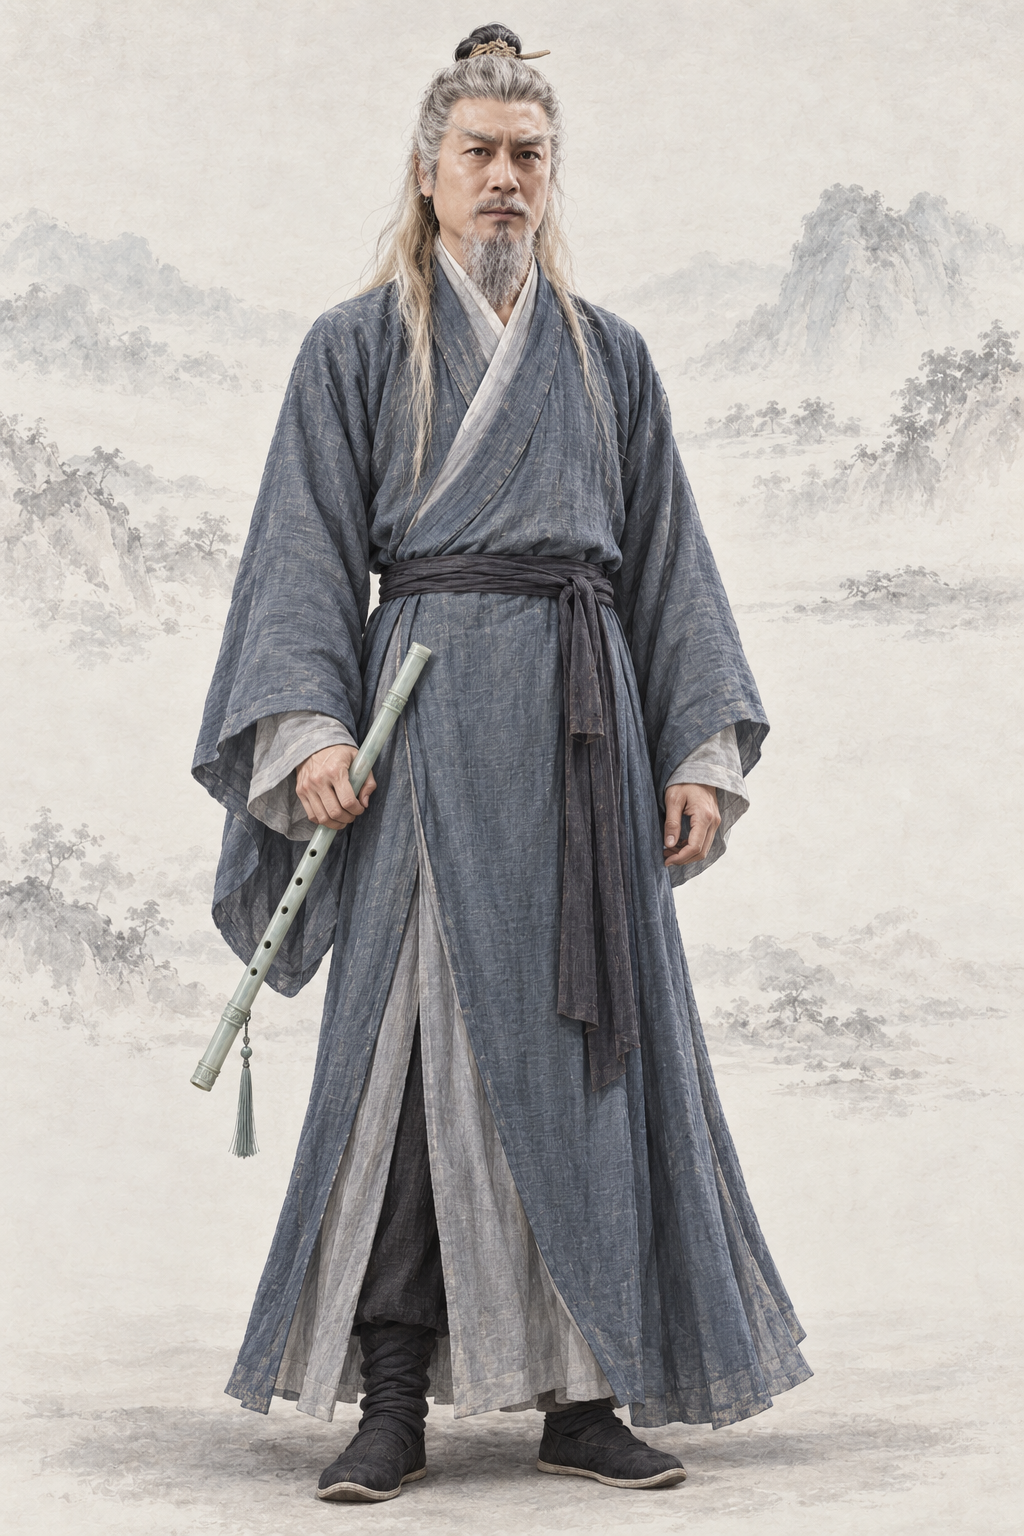
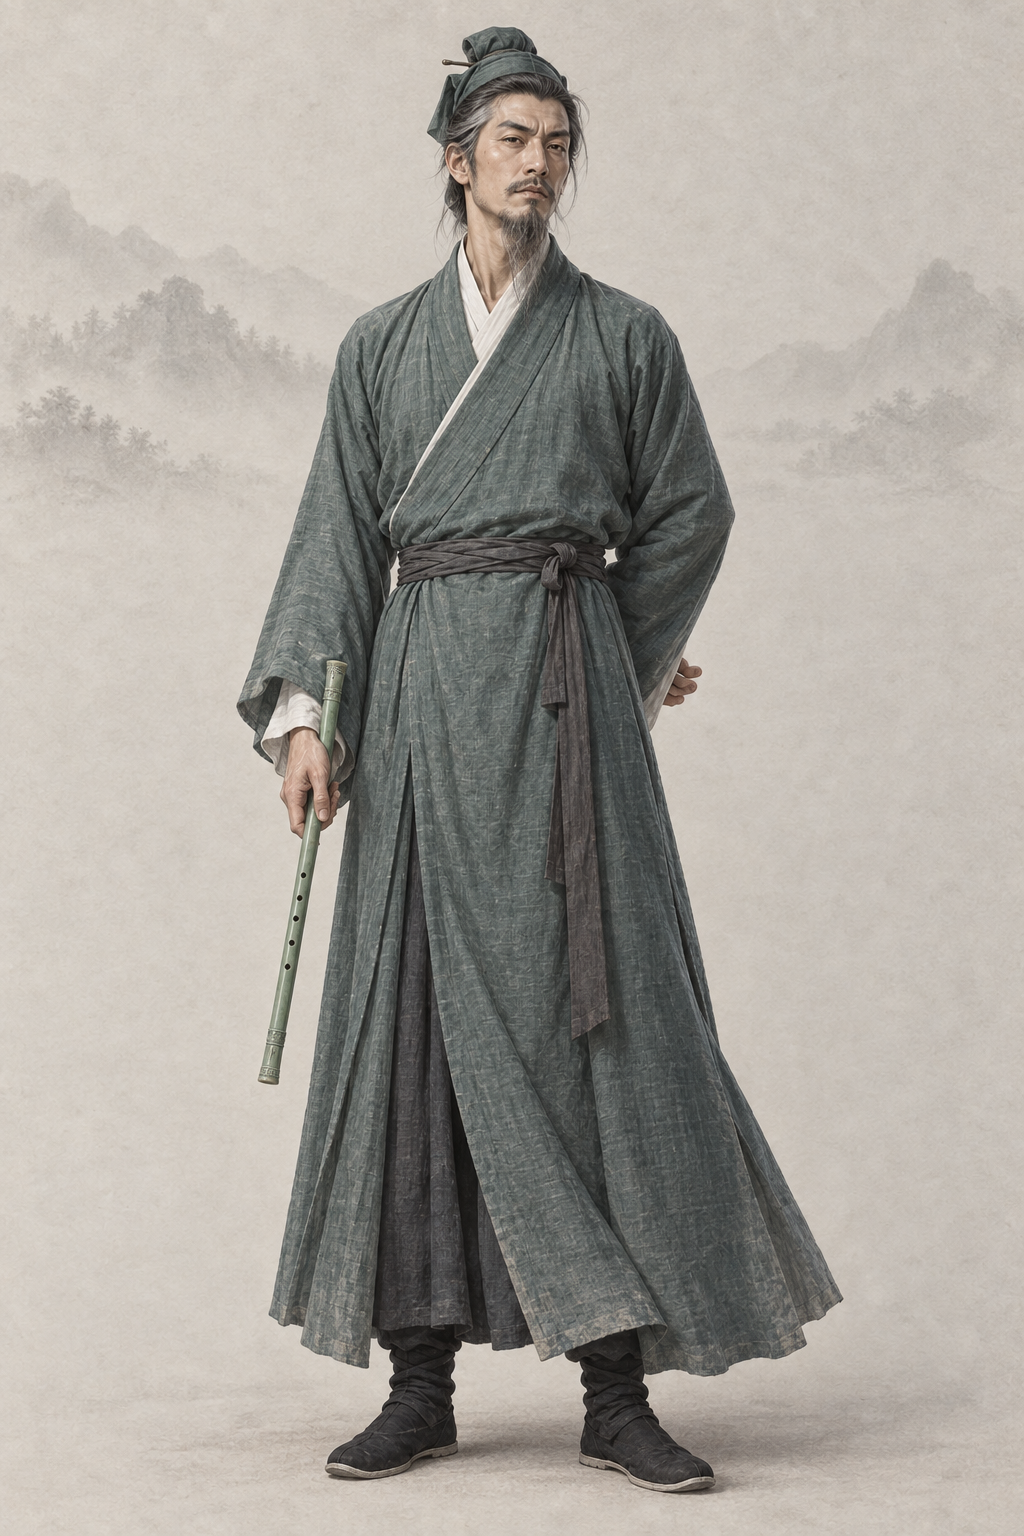
assets(character): por_npc_huangyaoshi__ch02_elder_base 黄药师（codex）
AR-31：重要人物加经典造型文字描写（原创面孔，不写演员名、不传剧照）

diff --git a/assets/default/prompts/characters/ch02-shediao/npc_huangyaoshi.md b/assets/default/prompts/characters/ch02-shediao/npc_huangyaoshi.md
@@ -20,11 +20,32 @@ realism_revision: user_identity_pose_20261001
 redo_reason: "面容源自 1983 版剧照（肖像风险），按原著“青衫、玉箫、形相清癯、高瘦隽爽”用文字原创重做，并作神雕黄药师身份参考"
 reference_upload:
 - assets/default/baseline/character/male/ref_npc_linghuchong__ch05_base01.png
+codex_prompt_rev: 2026-10-02
 ---
 
 # 黄药师 · 人物写实修正
 
 ## Gemini 提示词
+
+> 2026-10-02 AR-31 改写（1 号出图员，codex exec · image_gen 出图）：重要人物借鉴经典影视造型，只写成文字——不写演员名、不上传剧照、原创面孔；主角和美人画得好看，去 AI 味，禁止幼态。出图时上传两张同性别基线立绘作画风参考（放在最后）。审核组原稿保留在下一节作历史。
+
+```text
+生成一张 2:3 竖幅全身人物立绘：单人、单一视角、完整全身——头顶、双手、双脚和手中器物的两端都在画面内，四周留出自然空白；人物站姿自然，身体基本朝向正面，头部端正（不歪头、不仰不俯），镜头平视。
+【画风】写实手绘古风人物插画，与本项目写实武侠角色立绘同一画风：人物是完整、坚实、比例真实的写实绘画；皮肤有真实质感——细小毛孔、细纹、晒痕、轻微色斑和自然的左右不对称，不磨皮、不油亮；头发有一根根的发丝和自然碎发；布料看得出经纬纹理、厚薄和自然垂坠的褶皱，带穿用过的轻微旧化，但完整不破烂；整体设色低饱和、沉稳；柔和的自然光从左上方照来，明暗过渡自然，不打舞台光、轮廓光或美颜柔光。这是手绘写实绘画，不是照片，不是三维渲染，也不是动漫或游戏 CG。
+【背景】不透明的暖浅灰色纸底，只在远处有极淡的水墨远山和薄雾，大面积留白；人物与背景明暗分明、轮廓边缘干净完整（后续要自动抠图），水墨和纸纹只在背景里，不侵入人物和衣服；脚下只有很淡的一点接触阴影。
+【人物】黄药师，《射雕英雄传》东邪，桃花岛主，黄蓉之父，天下五绝之一；琴棋书画医卜星相无所不通，孤傲不羁、蔑视礼法。
+【年龄与体态】中老年（约五十岁，确龄待考），身材高瘦挺拔。
+【经典造型】借鉴经典武侠影视里这个角色深入人心的造型，只取发型、装束、配色、标志道具、气质和脸型类型，用原创面孔画出来，不像任何真实演员：东邪——一袭青衫、手持玉箫，清癯飘逸、孤傲不羁的世外高人，眉宇间有睥睨天下的傲气。
+【面容】原著写他形相清癯、丰姿隽爽、萧疏轩举、湛然若神。具体为：清瘦的长脸、颧骨略高、两颊微陷；剑眉斜飞、眉骨清楚；细长的眼睛目光清冷锐利、带傲气；鼻梁高挺细长；薄唇；唇上与颏下是修剪整齐的三缕长须，黑中夹白；鬓角斑白（原创扩展）。清癯俊雅、风度翩翩。
+【发式】黑发夹着灰白，在头顶束髻，戴一顶简洁的青色方巾。
+【服饰】青色长衫（交领右衽的宋式文士袍），白色内领，腰系素色丝绦，衫摆修长；黑色布靴。
+【道具】右手握一支碧玉箫，箫身完整。
+【姿态与神情】傲然独立，持箫的手自然垂在身侧、另一手负在身后；神情孤傲、清冷而洒脱。
+【不要】画面里不要任何文字、题款、印章、签名、水印、边框、分格或多视图；不要第二个人；不要幼态（童颜、娃娃脸、婴儿肥、儿童或少年身材、大头小身）；不要塑料感皮肤、磨皮美颜、网红脸（尖下巴大眼高鼻的模板脸）、过度对称、浓妆、偶像式打光、蜡像感；不要照片质感、三维渲染或动漫大眼；不要歪头、斜镜头；不要多指、缺指（设定的伤残除外）、手与器物粘连或悬空；汉式交领必须右衽（穿着者的左襟压在右襟上），不要左衽（设定为少数民族服制的除外），不要水平镜像；不要现代物品、发光特效、法阵或能量光。不要白发苍苍的老翁；不要偶像脸；不要华丽锦袍金冠；不要人皮面具（本图露出真容）。
+【画风基线】随提示词上传的参考图里，最后两张是本项目的立绘画风基线：只参考它们的画风、用色、光线、质感和暖浅灰纸底加淡水墨的背景处理，整体画风必须与它们一致——精细写实的数字手绘插画，不是油画，不要厚涂笔触和画布纹理。参考图只取画风、光线、质感和背景处理，不取长相：不要照搬基线图里人物的长相、年龄、发型、服饰和姿势。
+```
+
+## 审核组 Gemini 提示词（2026-10-02 AR-30 重审稿；AR-31 改写前，历史，不再用于出图）
 
 > 2026-10-02 重要人物立绘重审（A 组，`tools/agents/reports/REVIEW-portraits-A-ch00-04.md`）：**整体重出**。面容源自 1983 版剧照（肖像风险），按原著“青衫、玉箫、形相清癯、高瘦隽爽”用文字原创重做，并作神雕黄药师身份参考。
 > 本条不上传任何参考图（`reference_upload: []`）；frontmatter 的 `references` 与本节以下内容是旧出图管线的历史记录，不再用于出图。
